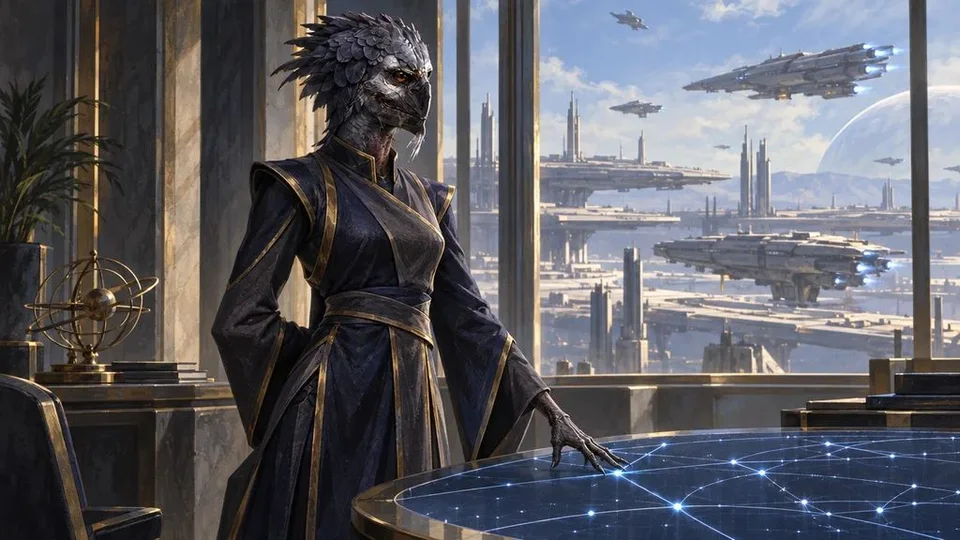
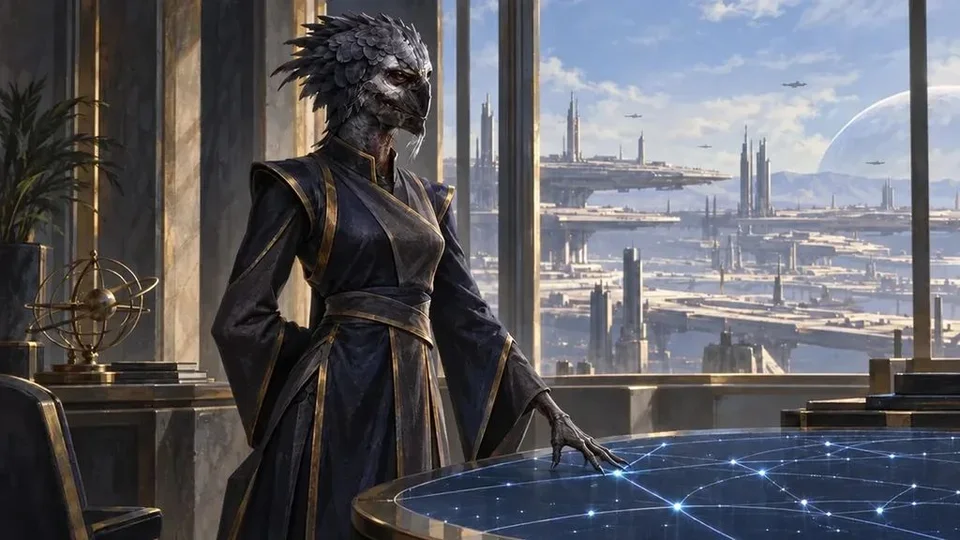
Ilustrace: 5 nových osobností (Abeni Okon, Ashley Ghan, Kellar Lench, Fiona Messer, Livia Messer III.) a opravy 4 portrétů, vše s pohybem
Claude-Session: https://claude.ai/code/session_019nmCp42rAmbc4M4RKrxxCM

diff --git a/assets/zive/seznam.js b/assets/zive/seznam.js
@@ -1,2 +1,2 @@
 /* Vytvořeno nastroje/zive_masky.py – neupravovat ručně. */
-window.ZIVE_SEZNAM={"/assets/kapitoly/dite-z-marsu.webp":{"s":"dite-z-marsu","m":"/assets/zive/dite-z-marsu-maska.png"},"/assets/kapitoly/goodman.webp":{"s":"goodman","m":"/assets/zive/goodman-maska.png"},"/assets/kapitoly/pad-calibanu.webp":{"s":"pad-calibanu","m":"/assets/zive/pad-calibanu-maska.png"},"/assets/kapitoly/ztracena-letka.webp":{"s":"ztracena-letka","m":"/assets/zive/ztracena-letka-maska.png"},"/assets/osoby/ai-se-choan.webp":{"s":"osoba","m":"/assets/zive/osoby/ai-se-choan.png","k":{"kam":[0.3,0.3,0.08,34],"ef":[[1,0.68,0.02,1.0,0.6,0.35,0,0,0,0,0],[4,0.8,0.38,0.92,0.52,0.8,0.35,0,1.0,0.95,0.85],[4,0.65,0.7,1.0,1.0,1.3,0.12,0,1.0,0.75,0.4]],"cast":[["prach",0.4,0.1,1,0.9,25]]}},"/assets/osoby/chule-se-rua.webp":{"s":"osoba","m":"/assets/zive/osoby/chule-se-rua.png","k":{"kam":[0.3,0.25,0.07,36],"ef":[[3,0.55,0.1,1.0,0.5,0.004,0,0,0,0,0],[2,0.0,0.0,0.3,0.55,0.0,0.0,0.004,0,0,0],[5,0.4,0.0,1.0,0.6,0.12,0.4,0,0,0,0]],"cast":[["lupeny",0.0,-0.05,1,0.3,26],["prach",0.3,0.1,1,0.8,20]]}},"/assets/osoby/corath-thal.webp":{"s":"osoba","m":"/assets/zive/osoby/corath-thal.png","k":{"kam":[0.3,0.3,0.08,34],"ef":[[2,0.48,0.32,1.0,0.8,0.006,0.0,0.006,0,0,0],[4,0.85,0.25,0.98,0.42,0.6,0.35,0,1.0,0.95,0.85],[4,0.48,0.62,0.62,0.72,2.5,0.25,0,1.0,0.75,0.4]],"cast":[["lode",0.35,0.2,1.05,0.08,6,0.9,1],["lode",1.05,0.55,0.5,0.45,4,0.7,1]]}},"/assets/osoby/corbyn-salehi.webp":{"s":"osoba","m":"/assets/zive/osoby/corbyn-salehi.png","k":{"kam":[0.25,0.25,0.08,32],"ef":[[2,0.35,0.12,1.0,0.98,0.006,-0.002,0.008,0,0,0],[4,0.55,0.0,0.66,0.2,1.5,0.3,0,1.0,0.55,0.2],[4,0.6,0.4,1.0,0.9,1.0,0.12,0,1.0,0.45,0.15]],"cast":[["lode",1.05,0.7,0.85,1.05,5,1.4,0],["jiskry",0.62,0.15]]}},"/assets/osoby/corsen-messer-v.webp":{"s":"osoba","m":"/assets/zive/osoby/corsen-messer-v.png","k":{"kam":[0.4,0.3,0.08,36],"ef":[[2,0.62,0.05,1.0,0.62,0.004,0.0,0.004,0,0,0],[4,0.03,0.32,0.14,0.45,3.0,0.3,0,1.0,0.75,0.4],[3,0.38,0.74,1.0,1.0,0.004,0,0,0,0,0]],"cast":[["jiskry",0.08,0.38],["lode",0.5,0.12,1.05,0.2,4,0.7,1]]}},"/assets/osoby/ellroy-cass.webp":{"s":"osoba","m":"/assets/zive/osoby/ellroy-cass.png","k":{"kam":[0.45,0.25,0.07,30],"ef":[[5,0.0,0.0,1.0,0.65,0.35,1.2,0,0,0,0],[4,0.0,0.7,1.0,0.9,2.2,0.12,0,0.55,0.75,1.0]],"cast":[["bubliny",0.0,0.0,1.0,0.75,10,7],["prach",0.1,0.0,0.9,0.7,25]]}},"/assets/osoby/erin-toi.webp":{"s":"osoba","m":"/assets/zive/osoby/erin-toi.png","k":{"kam":[0.2,0.18,0.07,36],"ef":[[5,0.28,0.0,0.95,0.5,0.25,0.5,0,0,0,0],[2,0.42,0.02,0.92,0.35,0.004,0.0,0.003,0,0,0]],"cast":[["prach",0.3,0.05,0.92,0.6,40]]}},"/assets/osoby/ernst-bishop.webp":{"s":"osoba","m":"/assets/zive/osoby/ernst-bishop.png","k":{"kam":[0.5,0.3,0.06,36],"ef":[[4,0.72,0.1,0.98,0.32,0.8,0.3,0,0.55,0.75,1.0],[4,0.14,0.8,0.2,0.9,1.5,0.9,1,1.0,0.15,0.1]],"cast":[["prach",0.0,0.0,1,1,15]]}},"/assets/osoby/illyana-messer-vi.webp":{"s":"osoba","m":"/assets/zive/osoby/illyana-messer-vi.png","k":{"kam":[0.32,0.15,0.08,34],"ef":[[2,0.5,0.0,0.9,0.32,0.005,0.001,0.008,0,0,0],[4,0.02,0.5,0.14,0.6,3.0,0.25,0,1.0,0.75,0.4]],"cast":[["lode",0.45,0.3,1.05,0.22,4,0.7,1],["jiskry",0.08,0.55]]}},"/assets/osoby/ivar-messer-i.webp":{"s":"osoba","m":"/assets/zive/osoby/ivar-messer-i.png","k":{"kam":[0.4,0.3,0.08,34],"ef":[[2,0.58,0.48,1.0,0.98,0.005,0.0,0.006,0,0,0],[4,0.9,0.48,1.05,0.68,0.5,0.45,0,1.0,0.95,0.85]],"cast":[["lode",0.5,0.38,0.98,0.2,5,0.8,1]]}},"/assets/osoby/jax-mccleary.webp":{"s":"osoba","m":"/assets/zive/osoby/jax-mccleary.png","k":{"kam":[0.6,0.25,0.06,34],"ef":[[4,0.0,0.55,0.55,0.68,1.0,0.2,0,0.55,0.75,1.0],[4,0.6,0.45,0.95,0.95,0.7,0.12,0,0.55,0.75,1.0]],"cast":[["prach",0.0,0.0,1,1,15]]}},"/assets/osoby/jerry.webp":{"s":"osoba","m":"/assets/zive/osoby/jerry.png","k":{"kam":[0.3,0.2,0.08,34],"ef":[[2,0.78,0.45,1.0,0.78,0.004,0.0,0.005,0,0,0],[4,0.45,0.85,0.85,1.0,2.0,0.2,0,1.0,0.75,0.4]],"cast":[["lode",0.4,0.3,1.05,0.1,5,0.7,1]]}},"/assets/osoby/jimmy.webp":{"s":"osoba","m":"/assets/zive/osoby/jimmy.png","k":{"kam":[0.5,0.3,0.06,32],"ef":[[4,0.93,0.72,1.0,0.84,3.5,0.35,0,1.0,0.75,0.4],[4,0.02,0.45,0.14,0.58,1.0,0.25,0,1.0,0.75,0.4],[5,0.38,0.1,0.6,0.45,0.25,0.8,0,0,0,0]],"cast":[["prach",0.1,0.0,1,0.8,20]]}},"/assets/osoby/kelos-costigan.webp":{"s":"osoba","m":"/assets/zive/osoby/kelos-costigan.png","k":{"kam":[0.38,0.15,0.08,36],"ef":[[2,0.5,0.0,1.0,0.25,0.006,0.0,0.005,0,0,0],[3,0.68,0.22,1.0,0.45,0.004,0,0,0,0,0],[4,0.14,0.64,0.24,0.72,1.2,0.25,0,0.55,0.75,1.0]],"cast":[["lode",0.48,0.12,1.05,0.18,7,0.8,0],["lode",1.05,0.3,0.5,0.25,5,0.7,1]]}},"/assets/osoby/ki-jotal.webp":{"s":"osoba","m":"/assets/zive/osoby/ki-jotal.png","k":{"kam":[0.38,0.15,0.08,34],"ef":[[2,0.5,0.0,0.92,0.42,0.005,0.0,0.005,0,0,0],[4,0.35,0.8,0.95,1.0,1.2,0.25,0,0.55,0.75,1.0]],"cast":[["lode",0.48,0.3,0.95,0.2,5,0.8,0],["prach",0.35,0.75,0.95,1,15]]}},"/assets/osoby/kofi-bafeuma.webp":{"s":"osoba","m":"/assets/zive/osoby/kofi-bafeuma.png","k":{"kam":[0.28,0.25,0.08,34],"ef":[[1,0.62,0.0,1.02,0.52,0.25,0,0,0,0,0],[4,0.66,0.05,0.98,0.5,0.7,0.25,0,1.0,0.75,0.4],[4,0.0,0.05,0.12,0.3,2.0,0.2,0,1.0,0.75,0.4]],"cast":[["prach",0.3,0.1,1,0.8,25]]}},"/assets/osoby/laylani-addison.webp":{"s":"osoba","m":"/assets/zive/osoby/laylani-addison.png","k":{"kam":[0.35,0.15,0.07,34],"ef":[[4,0.55,0.0,1.0,0.5,0.7,0.2,0,0.55,0.75,1.0],[4,0.82,0.35,0.95,0.5,2.0,0.25,0,1.0,0.75,0.4],[6,0.62,0.05,0.98,0.45,0.35,0,0,0.55,0.75,1.0]],"cast":[["prach",0.5,0.3,1,0.9,20]]}},"/assets/osoby/lii-se-kre.webp":{"s":"osoba","m":"/assets/zive/osoby/lii-se-kre.png","k":{"kam":[0.17,0.15,0.07,34],"ef":[[4,0.38,0.32,1.0,0.48,0.6,0.25,0,0.55,0.75,1.0],[2,0.4,0.42,1.0,0.9,0.004,0.0,0.004,0,0,0]],"cast":[["lode",0.3,0.25,1.05,0.35,10,0.8,1],["lode",1.05,0.1,0.45,0.05,6,0.6,1]]}},"/assets/osoby/linton-messer-xi.webp":{"s":"osoba","m":"/assets/zive/osoby/linton-messer-xi.png","k":{"kam":[0.55,0.15,0.07,34],"ef":[[4,0.0,0.55,0.5,0.65,1.5,0.2,0,1.0,0.75,0.4],[3,0.0,0.8,1.0,1.0,0.003,0,0,0,0,0]],"cast":[["lode",0.0,0.15,0.5,0.1,4,0.6,1],["prach",0.4,0.1,1,0.9,20]]}},"/assets/osoby/marshall-leon.webp":{"s":"osoba","m":"/assets/zive/osoby/marshall-leon.png","k":{"kam":[0.35,0.2,0.07,34],"ef":[[4,0.84,0.52,0.98,0.74,1.6,0.45,0,0.7,0.85,1.0],[4,0.0,0.1,0.14,0.6,0.4,0.12,0,1.0,0.95,0.85]],"cast":[["prach",0.4,0.0,1,0.9,35]]}},"/assets/osoby/michelle-saleno.webp":{"s":"osoba","m":"/assets/zive/osoby/michelle-saleno.png","k":{"kam":[0.3,0.12,0.08,34],"ef":[[4,0.86,0.2,1.0,0.4,0.5,0.4,0,1.0,0.75,0.4],[2,0.62,0.0,1.0,0.3,0.006,0.0,0.004,0,0,0],[3,0.0,0.66,1.0,1.0,0.005,0,0,0,0,0]],"cast":[["prach",0.3,0.2,1,0.9,25],["lode",0.65,0.12,1.05,0.2,2,0.7,0]]}},"/assets/osoby/ne-se-ruoth.webp":{"s":"osoba","m":"/assets/zive/osoby/ne-se-ruoth.png","k":{"kam":[0.4,0.15,0.08,34],"ef":[[2,0.55,0.0,1.0,0.42,0.004,0.001,0.006,0,0,0],[4,0.48,0.5,0.72,0.62,0.5,0.4,0,1.0,0.75,0.4]],"cast":[["prach",0.3,0.5,1,0.95,30]]}},"/assets/osoby/neal-socolovich.webp":{"s":"osoba","m":"/assets/zive/osoby/neal-socolovich.png","k":{"kam":[0.38,0.15,0.07,34],"ef":[[4,0.85,0.32,1.0,0.52,0.5,0.45,0,1.0,0.75,0.4],[7,0.68,0.4,1.0,0.72,0.003,0,0,0,0,0],[5,0.35,0.05,0.95,0.8,0.15,0.4,0,0,0,0],[4,0.0,0.32,0.07,0.48,3.0,0.3,0,1.0,0.75,0.4]],"cast":[["prach",0.35,0.05,0.95,0.8,40]]}},"/assets/osoby/nick-croshaw.webp":{"s":"osoba","m":"/assets/zive/osoby/nick-croshaw.png","k":{"kam":[0.25,0.2,0.08,34],"ef":[[1,0.66,0.0,1.04,0.62,0.4,0,0,0,0,0],[2,0.24,0.1,0.5,0.52,0.004,0.0,0.004,0,0,0],[4,0.55,0.7,1.0,1.0,2.0,0.2,0,1.0,0.75,0.4]],"cast":[["prach",0.0,0.0,0.6,1,15]]}},"/assets/osoby/paul-barlow.webp":{"s":"osoba","m":"/assets/zive/osoby/paul-barlow.png","k":{"kam":[0.35,0.2,0.08,32],"ef":[[2,0.55,0.0,1.0,0.55,0.003,-0.008,0.01,0,0,0],[3,0.55,0.74,1.0,1.0,0.005,0,0,0,0,0],[4,0.1,0.06,0.17,0.2,3.0,0.3,0,1.0,0.75,0.4]],"cast":[["popel",60],["jiskry",0.82,0.5],["jiskry",0.7,0.62]]}},"/assets/osoby/scott-childress.webp":{"s":"osoba","m":"/assets/zive/osoby/scott-childress.png","k":{"kam":[0.3,0.15,0.07,34],"ef":[[4,0.52,0.12,0.84,0.58,1.2,0.35,0,1.0,0.75,0.4],[3,0.3,0.76,1.0,1.0,0.004,0,0,0,0,0],[2,0.0,0.2,0.15,0.75,0.004,0.0,0.003,0,0,0]],"cast":[["jiskry",0.68,0.35],["prach",0.3,0.1,1,0.8,25]]}},"/assets/osoby/seang-se-rua.webp":{"s":"osoba","m":"/assets/zive/osoby/seang-se-rua.png","k":{"kam":[0.48,0.15,0.07,34],"ef":[[4,0.0,0.28,0.18,0.5,0.5,0.45,0,1.0,0.75,0.4],[5,0.0,0.0,0.7,0.7,0.2,0.4,0,0,0,0],[3,0.0,0.65,1.0,1.0,0.005,0,0,0,0,0]],"cast":[["prach",0.0,0.1,0.7,0.8,40]]}},"/assets/osoby/selma-tontil.webp":{"s":"osoba","m":"/assets/zive/osoby/selma-tontil.png","k":{"kam":[0.45,0.18,0.07,34],"ef":[[4,0.0,0.25,0.1,0.4,2.0,0.25,0,1.0,0.75,0.4],[3,0.65,0.32,1.0,0.5,0.003,0,0,0,0,0]],"cast":[["lode",0.65,0.12,1.05,0.05,3,0.9,0],["lode",1.05,0.3,0.66,0.32,3,0.5,0]]}},"/assets/osoby/suj-kossi.webp":{"s":"osoba","m":"/assets/zive/osoby/suj-kossi.png","k":{"kam":[0.35,0.15,0.07,34],"ef":[[5,0.5,0.0,1.0,0.58,0.25,0.4,0,0,0,0]],"cast":[["prach",0.45,0.0,1,0.7,45]]}},"/assets/osoby/sylvie-randall.webp":{"s":"osoba","m":"/assets/zive/osoby/sylvie-randall.png","k":{"kam":[0.38,0.25,0.07,32],"ef":[[4,0.08,0.02,0.19,0.14,1.6,0.9,1,1.0,0.15,0.1],[4,0.14,0.24,0.22,0.34,1.6,0.7,1,1.0,0.15,0.1],[2,0.6,0.08,1.0,0.85,0.004,0.0,0.004,0,0,0]],"cast":[["lode",0.6,0.3,1.05,0.55,8,0.9,1]]}},"/assets/osoby/terrence-akari.webp":{"s":"osoba","m":"/assets/zive/osoby/terrence-akari.png","k":{"kam":[0.3,0.2,0.08,34],"ef":[[4,0.76,0.12,0.88,0.28,0.6,0.5,0,1.0,0.95,0.85],[2,0.38,0.0,0.85,0.45,0.004,0.001,0.006,0,0,0],[4,0.5,0.55,1.0,0.75,2.0,0.15,0,1.0,0.75,0.4]],"cast":[["lode",0.4,0.4,1.05,0.32,2,0.6,1]]}},"/assets/osoby/toshi-aaron.webp":{"s":"osoba","m":"/assets/zive/osoby/toshi-aaron.png","k":{"kam":[0.4,0.3,0.08,32],"ef":[[1,0.72,0.0,0.88,0.26,0.6,0,0,0,0,0],[6,0.6,0.45,0.82,0.8,0.9,0,0,0.4,1.0,0.7],[4,0.4,0.55,1.0,1.0,2.5,0.15,0,1.0,0.75,0.4]],"cast":[["lode",0.95,0.18,0.7,0.3,6,1.3,0]]}},"/assets/osoby/tueng-se-kre.webp":{"s":"osoba","m":"/assets/zive/osoby/tueng-se-kre.png","k":{"kam":[0.35,0.12,0.07,34],"ef":[[4,0.74,0.34,0.9,0.5,0.5,0.4,0,1.0,0.75,0.4],[2,0.55,0.0,1.0,0.4,0.005,0.0,0.005,0,0,0],[3,0.55,0.74,1.0,1.0,0.004,0,0,0,0,0]],"cast":[["lode",0.55,0.25,1.05,0.2,6,0.7,0]]}},"/assets/osoby/vernon-tar.webp":{"s":"osoba","m":"/assets/zive/osoby/vernon-tar.png","k":{"kam":[0.3,0.25,0.08,34],"ef":[[4,0.76,0.12,0.88,0.28,0.6,0.5,0,1.0,0.95,0.85],[2,0.42,0.0,1.0,0.45,0.004,0.001,0.006,0,0,0],[4,0.3,0.6,0.75,0.85,2.2,0.2,0,1.0,0.75,0.4]],"cast":[["lode",0.45,0.1,1.05,0.2,3,0.6,1]]}},"/assets/osoby/yaha-se-xyo.webp":{"s":"osoba","m":"/assets/zive/osoby/yaha-se-xyo.png","k":{"kam":[0.35,0.25,0.07,34],"ef":[[4,0.47,0.13,0.61,0.42,1.2,0.3,0,1.0,0.75,0.4],[2,0.82,0.35,1.0,0.62,0.002,0.0,0.004,0,0,0],[5,0.6,0.0,1.0,0.7,0.15,0.4,0,0,0,0]],"cast":[["bubliny",0.49,0.22,0.59,0.38,12,1.2],["prach",0.3,0.0,1,0.8,25]]}}};
+window.ZIVE_SEZNAM={"/assets/kapitoly/dite-z-marsu.webp":{"s":"dite-z-marsu","m":"/assets/zive/dite-z-marsu-maska.png"},"/assets/kapitoly/goodman.webp":{"s":"goodman","m":"/assets/zive/goodman-maska.png"},"/assets/kapitoly/pad-calibanu.webp":{"s":"pad-calibanu","m":"/assets/zive/pad-calibanu-maska.png"},"/assets/kapitoly/ztracena-letka.webp":{"s":"ztracena-letka","m":"/assets/zive/ztracena-letka-maska.png"},"/assets/osoby/abeni-okon.webp":{"s":"osoba","m":"/assets/zive/osoby/abeni-okon.png","k":{"kam":[0.27,0.2,0.07,34],"ef":[[4,0.72,0.12,0.84,0.62,1.4,0.3,0,1.0,0.75,0.4],[2,0.3,0.0,1.0,0.35,0.004,0.0,0.004,0,0,0],[3,0.55,0.73,0.88,0.84,0.004,0,0,0,0,0]],"cast":[["para",0.4,0.33,0.8],["para",0.59,0.45,0.6],["para",0.69,0.45,0.6],["para",0.94,0.43,0.7],["prach",0.4,0.1,1,0.8,20]]}},"/assets/osoby/ai-se-choan.webp":{"s":"osoba","m":"/assets/zive/osoby/ai-se-choan.png","k":{"kam":[0.3,0.3,0.08,34],"ef":[[1,0.68,0.02,1.0,0.6,0.35,0,0,0,0,0],[4,0.8,0.38,0.92,0.52,0.8,0.35,0,1.0,0.95,0.85],[4,0.65,0.7,1.0,1.0,1.3,0.12,0,1.0,0.75,0.4]],"cast":[["prach",0.4,0.1,1,0.9,25]]}},"/assets/osoby/ashley-ghan.webp":{"s":"osoba","m":"/assets/zive/osoby/ashley-ghan.png","k":{"kam":[0.35,0.2,0.07,34],"ef":[[4,0.0,0.28,0.09,0.44,3.0,0.3,0,1.0,0.75,0.4],[2,0.75,0.07,0.93,0.4,0.002,0.0,0.003,0,0,0]],"cast":[["prach",0.0,0.2,0.7,0.9,35]]}},"/assets/osoby/chule-se-rua.webp":{"s":"osoba","m":"/assets/zive/osoby/chule-se-rua.png","k":{"kam":[0.3,0.25,0.07,36],"ef":[[3,0.55,0.1,1.0,0.5,0.004,0,0,0,0,0],[2,0.0,0.0,0.3,0.55,0.0,0.0,0.004,0,0,0],[5,0.4,0.0,1.0,0.6,0.12,0.4,0,0,0,0]],"cast":[["lupeny",0.0,-0.05,1,0.3,26],["prach",0.3,0.1,1,0.8,20]]}},"/assets/osoby/corath-thal.webp":{"s":"osoba","m":"/assets/zive/osoby/corath-thal.png","k":{"kam":[0.3,0.3,0.08,34],"ef":[[2,0.48,0.32,1.0,0.8,0.006,0.0,0.006,0,0,0],[4,0.85,0.25,0.98,0.42,0.6,0.35,0,1.0,0.95,0.85],[4,0.48,0.62,0.62,0.72,2.5,0.25,0,1.0,0.75,0.4]],"cast":[["lode",0.35,0.2,1.05,0.08,6,0.9,1],["lode",1.05,0.55,0.5,0.45,4,0.7,1]]}},"/assets/osoby/corbyn-salehi.webp":{"s":"osoba","m":"/assets/zive/osoby/corbyn-salehi.png","k":{"kam":[0.25,0.25,0.08,32],"ef":[[2,0.35,0.12,1.0,0.98,0.006,-0.002,0.008,0,0,0],[4,0.55,0.0,0.66,0.2,1.5,0.3,0,1.0,0.55,0.2],[4,0.6,0.4,1.0,0.9,1.0,0.12,0,1.0,0.45,0.15]],"cast":[["lode",1.05,0.7,0.85,1.05,5,1.4,0],["jiskry",0.62,0.15]]}},"/assets/osoby/corsen-messer-v.webp":{"s":"osoba","m":"/assets/zive/osoby/corsen-messer-v.png","k":{"kam":[0.4,0.3,0.08,36],"ef":[[2,0.62,0.05,1.0,0.62,0.004,0.0,0.004,0,0,0],[4,0.03,0.32,0.14,0.45,3.0,0.3,0,1.0,0.75,0.4],[3,0.38,0.74,1.0,1.0,0.004,0,0,0,0,0]],"cast":[["jiskry",0.08,0.38],["lode",0.5,0.12,1.05,0.2,4,0.7,1]]}},"/assets/osoby/ellroy-cass.webp":{"s":"osoba","m":"/assets/zive/osoby/ellroy-cass.png","k":{"kam":[0.45,0.25,0.07,30],"ef":[[5,0.0,0.0,1.0,0.65,0.35,1.2,0,0,0,0],[4,0.0,0.7,1.0,0.9,2.2,0.12,0,0.55,0.75,1.0]],"cast":[["bubliny",0.0,0.0,1.0,0.75,10,7],["prach",0.1,0.0,0.9,0.7,25]]}},"/assets/osoby/erin-toi.webp":{"s":"osoba","m":"/assets/zive/osoby/erin-toi.png","k":{"kam":[0.2,0.18,0.07,36],"ef":[[5,0.28,0.0,0.95,0.5,0.25,0.5,0,0,0,0],[2,0.42,0.02,0.92,0.35,0.004,0.0,0.003,0,0,0]],"cast":[["prach",0.3,0.05,0.92,0.6,40]]}},"/assets/osoby/ernst-bishop.webp":{"s":"osoba","m":"/assets/zive/osoby/ernst-bishop.png","k":{"kam":[0.5,0.3,0.06,36],"ef":[[4,0.72,0.1,0.98,0.32,0.8,0.3,0,0.55,0.75,1.0],[4,0.14,0.8,0.2,0.9,1.5,0.9,1,1.0,0.15,0.1]],"cast":[["prach",0.0,0.0,1,1,15]]}},"/assets/osoby/fiona-messer.webp":{"s":"osoba","m":"/assets/zive/osoby/fiona-messer.png","k":{"kam":[0.35,0.2,0.07,34],"ef":[[4,0.05,0.32,0.11,0.41,4.0,0.4,0,1.0,0.75,0.4],[2,0.78,0.0,1.0,0.45,0.002,-0.006,0.008,0,0,0],[3,0.65,0.75,1.0,1.0,0.004,0,0,0,0,0]],"cast":[["para",0.08,0.34,0.4],["lode",0.62,0.1,0.86,0.13,3,0.6,1],["jiskry",0.85,0.3]]}},"/assets/osoby/illyana-messer-vi.webp":{"s":"osoba","m":"/assets/zive/osoby/illyana-messer-vi.png","k":{"kam":[0.32,0.15,0.08,34],"ef":[[2,0.5,0.0,0.9,0.32,0.005,0.001,0.008,0,0,0],[4,0.02,0.5,0.14,0.6,3.0,0.25,0,1.0,0.75,0.4]],"cast":[["lode",0.45,0.3,1.05,0.22,4,0.7,1],["jiskry",0.08,0.55]]}},"/assets/osoby/ivar-messer-i.webp":{"s":"osoba","m":"/assets/zive/osoby/ivar-messer-i.png","k":{"kam":[0.4,0.3,0.08,34],"ef":[[2,0.58,0.48,1.0,0.98,0.005,0.0,0.006,0,0,0],[4,0.9,0.48,1.05,0.68,0.5,0.45,0,1.0,0.95,0.85]],"cast":[["lode",0.5,0.38,0.98,0.2,5,0.8,1]]}},"/assets/osoby/jax-mccleary.webp":{"s":"osoba","m":"/assets/zive/osoby/jax-mccleary.png","k":{"kam":[0.6,0.25,0.06,34],"ef":[[4,0.0,0.55,0.55,0.68,1.0,0.2,0,0.55,0.75,1.0],[4,0.6,0.45,0.95,0.95,0.7,0.12,0,0.55,0.75,1.0]],"cast":[["prach",0.0,0.0,1,1,15]]}},"/assets/osoby/jerry.webp":{"s":"osoba","m":"/assets/zive/osoby/jerry.png","k":{"kam":[0.3,0.2,0.08,34],"ef":[[2,0.78,0.45,1.0,0.78,0.004,0.0,0.005,0,0,0],[4,0.45,0.85,0.85,1.0,2.0,0.2,0,1.0,0.75,0.4]],"cast":[["lode",0.4,0.3,1.05,0.1,5,0.7,1]]}},"/assets/osoby/jimmy.webp":{"s":"osoba","m":"/assets/zive/osoby/jimmy.png","k":{"kam":[0.5,0.3,0.06,32],"ef":[[4,0.93,0.72,1.0,0.84,3.5,0.35,0,1.0,0.75,0.4],[4,0.02,0.45,0.14,0.58,1.0,0.25,0,1.0,0.75,0.4],[5,0.38,0.1,0.6,0.45,0.25,0.8,0,0,0,0]],"cast":[["prach",0.1,0.0,1,0.8,20]]}},"/assets/osoby/kellar-lench.webp":{"s":"osoba","m":"/assets/zive/osoby/kellar-lench.png","k":{"kam":[0.37,0.25,0.08,32],"ef":[[1,0.6,0.02,1.0,0.48,0.35,0,0,0,0,0],[4,0.45,0.08,0.57,0.25,0.6,0.35,0,1.0,0.95,0.85],[4,0.4,0.47,0.85,0.72,1.5,0.2,0,0.55,0.75,1.0]],"cast":[["prach",0.0,0.1,0.6,0.9,20]]}},"/assets/osoby/kelos-costigan.webp":{"s":"osoba","m":"/assets/zive/osoby/kelos-costigan.png","k":{"kam":[0.38,0.15,0.08,36],"ef":[[2,0.5,0.0,1.0,0.25,0.006,0.0,0.005,0,0,0],[3,0.68,0.22,1.0,0.45,0.004,0,0,0,0,0],[4,0.14,0.64,0.24,0.72,1.2,0.25,0,0.55,0.75,1.0]],"cast":[["lode",0.48,0.12,1.05,0.18,7,0.8,0],["lode",1.05,0.3,0.5,0.25,5,0.7,1]]}},"/assets/osoby/ki-jotal.webp":{"s":"osoba","m":"/assets/zive/osoby/ki-jotal.png","k":{"kam":[0.38,0.15,0.08,34],"ef":[[2,0.5,0.0,0.92,0.42,0.005,0.0,0.005,0,0,0],[4,0.35,0.8,0.95,1.0,1.2,0.25,0,0.55,0.75,1.0]],"cast":[["lode",0.48,0.3,0.95,0.2,5,0.8,0],["prach",0.35,0.75,0.95,1,15]]}},"/assets/osoby/kofi-bafeuma.webp":{"s":"osoba","m":"/assets/zive/osoby/kofi-bafeuma.png","k":{"kam":[0.28,0.25,0.08,34],"ef":[[1,0.62,0.0,1.02,0.52,0.25,0,0,0,0,0],[4,0.66,0.05,0.98,0.5,0.7,0.25,0,1.0,0.75,0.4],[4,0.0,0.05,0.12,0.3,2.0,0.2,0,1.0,0.75,0.4]],"cast":[["prach",0.3,0.1,1,0.8,25]]}},"/assets/osoby/laylani-addison.webp":{"s":"osoba","m":"/assets/zive/osoby/laylani-addison.png","k":{"kam":[0.35,0.15,0.07,34],"ef":[[4,0.55,0.0,1.0,0.5,0.7,0.2,0,0.55,0.75,1.0],[4,0.82,0.35,0.95,0.5,2.0,0.25,0,1.0,0.75,0.4],[6,0.62,0.05,0.98,0.45,0.35,0,0,0.55,0.75,1.0]],"cast":[["prach",0.5,0.3,1,0.9,20]]}},"/assets/osoby/lii-se-kre.webp":{"s":"osoba","m":"/assets/zive/osoby/lii-se-kre.png","k":{"kam":[0.17,0.15,0.07,34],"ef":[[4,0.38,0.32,1.0,0.48,0.6,0.25,0,0.55,0.75,1.0],[2,0.4,0.42,1.0,0.9,0.004,0.0,0.004,0,0,0]],"cast":[["lode",0.3,0.25,1.05,0.35,10,0.8,1],["lode",1.05,0.1,0.45,0.05,6,0.6,1]]}},"/assets/osoby/linton-messer-xi.webp":{"s":"osoba","m":"/assets/zive/osoby/linton-messer-xi.png","k":{"kam":[0.55,0.15,0.07,34],"ef":[[4,0.0,0.55,0.5,0.65,1.5,0.2,0,1.0,0.75,0.4],[3,0.0,0.8,1.0,1.0,0.003,0,0,0,0,0]],"cast":[["lode",0.0,0.15,0.5,0.1,4,0.6,1],["prach",0.4,0.1,1,0.9,20]]}},"/assets/osoby/livia-messer-iii.webp":{"s":"osoba","m":"/assets/zive/osoby/livia-messer-iii.png","k":{"kam":[0.47,0.2,0.07,34],"ef":[[4,0.0,0.0,0.42,0.75,0.9,0.2,0,0.55,0.75,1.0],[2,0.65,0.0,0.95,0.45,0.004,0.0,0.004,0,0,0]],"cast":[["lode",0.7,0.32,0.92,0.3,3,0.6,0],["prach",0.4,0.0,1,0.8,15]]}},"/assets/osoby/marshall-leon.webp":{"s":"osoba","m":"/assets/zive/osoby/marshall-leon.png","k":{"kam":[0.35,0.2,0.07,34],"ef":[[4,0.84,0.52,0.98,0.74,1.6,0.45,0,0.7,0.85,1.0],[4,0.0,0.1,0.14,0.6,0.4,0.12,0,1.0,0.95,0.85]],"cast":[["prach",0.4,0.0,1,0.9,35]]}},"/assets/osoby/michelle-saleno.webp":{"s":"osoba","m":"/assets/zive/osoby/michelle-saleno.png","k":{"kam":[0.3,0.12,0.08,34],"ef":[[4,0.86,0.2,1.0,0.4,0.5,0.4,0,1.0,0.75,0.4],[2,0.62,0.0,1.0,0.3,0.006,0.0,0.004,0,0,0],[3,0.0,0.66,1.0,1.0,0.005,0,0,0,0,0]],"cast":[["prach",0.3,0.2,1,0.9,25],["lode",0.65,0.12,1.05,0.2,2,0.7,0]]}},"/assets/osoby/ne-se-ruoth.webp":{"s":"osoba","m":"/assets/zive/osoby/ne-se-ruoth.png","k":{"kam":[0.4,0.15,0.08,34],"ef":[[2,0.55,0.0,1.0,0.42,0.004,0.001,0.006,0,0,0],[4,0.48,0.5,0.72,0.62,0.5,0.4,0,1.0,0.75,0.4]],"cast":[["prach",0.3,0.5,1,0.95,30]]}},"/assets/osoby/neal-socolovich.webp":{"s":"osoba","m":"/assets/zive/osoby/neal-socolovich.png","k":{"kam":[0.38,0.15,0.07,34],"ef":[[4,0.85,0.32,1.0,0.52,0.5,0.45,0,1.0,0.75,0.4],[7,0.68,0.4,1.0,0.72,0.003,0,0,0,0,0],[5,0.35,0.05,0.95,0.8,0.15,0.4,0,0,0,0],[4,0.0,0.32,0.07,0.48,3.0,0.3,0,1.0,0.75,0.4]],"cast":[["prach",0.35,0.05,0.95,0.8,40]]}},"/assets/osoby/nick-croshaw.webp":{"s":"osoba","m":"/assets/zive/osoby/nick-croshaw.png","k":{"kam":[0.25,0.2,0.08,34],"ef":[[1,0.66,0.0,1.04,0.62,0.4,0,0,0,0,0],[2,0.24,0.1,0.5,0.52,0.004,0.0,0.004,0,0,0],[4,0.55,0.7,1.0,1.0,2.0,0.2,0,1.0,0.75,0.4]],"cast":[["prach",0.0,0.0,0.6,1,15]]}},"/assets/osoby/paul-barlow.webp":{"s":"osoba","m":"/assets/zive/osoby/paul-barlow.png","k":{"kam":[0.35,0.2,0.08,32],"ef":[[2,0.55,0.0,1.0,0.55,0.003,-0.008,0.01,0,0,0],[3,0.55,0.74,1.0,1.0,0.005,0,0,0,0,0],[4,0.1,0.06,0.17,0.2,3.0,0.3,0,1.0,0.75,0.4]],"cast":[["popel",60],["jiskry",0.82,0.5],["jiskry",0.7,0.62]]}},"/assets/osoby/scott-childress.webp":{"s":"osoba","m":"/assets/zive/osoby/scott-childress.png","k":{"kam":[0.3,0.15,0.07,34],"ef":[[4,0.52,0.12,0.84,0.58,1.2,0.35,0,1.0,0.75,0.4],[3,0.3,0.76,1.0,1.0,0.004,0,0,0,0,0],[2,0.0,0.2,0.15,0.75,0.004,0.0,0.003,0,0,0]],"cast":[["jiskry",0.68,0.35],["prach",0.3,0.1,1,0.8,25]]}},"/assets/osoby/seang-se-rua.webp":{"s":"osoba","m":"/assets/zive/osoby/seang-se-rua.png","k":{"kam":[0.48,0.15,0.07,34],"ef":[[4,0.0,0.28,0.18,0.5,0.5,0.45,0,1.0,0.75,0.4],[5,0.0,0.0,0.7,0.7,0.2,0.4,0,0,0,0],[3,0.0,0.65,1.0,1.0,0.005,0,0,0,0,0]],"cast":[["prach",0.0,0.1,0.7,0.8,40]]}},"/assets/osoby/selma-tontil.webp":{"s":"osoba","m":"/assets/zive/osoby/selma-tontil.png","k":{"kam":[0.45,0.18,0.07,34],"ef":[[4,0.0,0.25,0.1,0.4,2.0,0.25,0,1.0,0.75,0.4],[3,0.65,0.32,1.0,0.5,0.003,0,0,0,0,0]],"cast":[["lode",0.65,0.12,1.05,0.05,3,0.9,0],["lode",1.05,0.3,0.66,0.32,3,0.5,0]]}},"/assets/osoby/suj-kossi.webp":{"s":"osoba","m":"/assets/zive/osoby/suj-kossi.png","k":{"kam":[0.35,0.15,0.07,34],"ef":[[5,0.5,0.0,1.0,0.58,0.25,0.4,0,0,0,0]],"cast":[["prach",0.45,0.0,1,0.7,45]]}},"/assets/osoby/sylvie-randall.webp":{"s":"osoba","m":"/assets/zive/osoby/sylvie-randall.png","k":{"kam":[0.38,0.25,0.07,32],"ef":[[4,0.08,0.02,0.19,0.14,1.6,0.9,1,1.0,0.15,0.1],[4,0.14,0.22,0.22,0.32,1.6,0.7,1,1.0,0.15,0.1],[2,0.63,0.18,0.88,0.7,0.004,0.0,0.004,0,0,0]],"cast":[["lode",0.6,0.3,1.05,0.55,8,0.7,1]]}},"/assets/osoby/terrence-akari.webp":{"s":"osoba","m":"/assets/zive/osoby/terrence-akari.png","k":{"kam":[0.3,0.2,0.08,34],"ef":[[4,0.76,0.12,0.88,0.28,0.6,0.5,0,1.0,0.95,0.85],[2,0.38,0.0,0.85,0.45,0.004,0.001,0.006,0,0,0],[4,0.5,0.55,1.0,0.75,2.0,0.15,0,1.0,0.75,0.4]],"cast":[["lode",0.4,0.4,1.05,0.32,2,0.6,1]]}},"/assets/osoby/toshi-aaron.webp":{"s":"osoba","m":"/assets/zive/osoby/toshi-aaron.png","k":{"kam":[0.4,0.3,0.08,32],"ef":[[1,0.72,0.0,0.88,0.26,0.6,0,0,0,0,0],[6,0.6,0.45,0.82,0.8,0.9,0,0,0.4,1.0,0.7],[4,0.4,0.55,1.0,1.0,2.5,0.15,0,1.0,0.75,0.4]],"cast":[["lode",0.95,0.18,0.7,0.3,6,1.3,0]]}},"/assets/osoby/tueng-se-kre.webp":{"s":"osoba","m":"/assets/zive/osoby/tueng-se-kre.png","k":{"kam":[0.35,0.12,0.07,34],"ef":[[4,0.74,0.34,0.9,0.5,0.5,0.4,0,1.0,0.75,0.4],[2,0.55,0.0,1.0,0.4,0.005,0.0,0.005,0,0,0],[3,0.55,0.74,1.0,1.0,0.004,0,0,0,0,0]],"cast":[["lode",0.55,0.25,1.05,0.2,6,0.7,0]]}},"/assets/osoby/vernon-tar.webp":{"s":"osoba","m":"/assets/zive/osoby/vernon-tar.png","k":{"kam":[0.3,0.25,0.08,34],"ef":[[4,0.76,0.12,0.88,0.28,0.6,0.5,0,1.0,0.95,0.85],[2,0.42,0.0,1.0,0.45,0.004,0.001,0.006,0,0,0],[4,0.3,0.6,0.75,0.85,2.2,0.2,0,1.0,0.75,0.4]],"cast":[["lode",0.45,0.1,1.05,0.2,3,0.6,1]]}},"/assets/osoby/yaha-se-xyo.webp":{"s":"osoba","m":"/assets/zive/osoby/yaha-se-xyo.png","k":{"kam":[0.35,0.25,0.07,34],"ef":[[4,0.47,0.13,0.61,0.42,1.2,0.3,0,1.0,0.75,0.4],[2,0.82,0.35,1.0,0.62,0.002,0.0,0.004,0,0,0],[5,0.6,0.0,1.0,0.7,0.15,0.4,0,0,0,0]],"cast":[["bubliny",0.49,0.22,0.59,0.38,12,1.2],["prach",0.3,0.0,1,0.8,25]]}}};

diff --git a/nastroje/zive_osoby.py b/nastroje/zive_osoby.py
@@ -25,6 +25,29 @@ CERVENA = (1.0, .15, .1)
 ZELENA = (.4, 1.0, .7)
 
 OSOBY = {
+    'abeni-okon': dict(kam=[.27, .2, .07, 34], ef=[
+        ('zar', (.72, .12, .84, .62), 1.4, .3, TEPLA, 0),
+        ('mrak', (.3, .0, 1.0, .35), .004, .0, .004),
+        ('voda', (.55, .73, .88, .84), .004)],
+        cast=[('para', .4, .33, .8), ('para', .59, .45, .6), ('para', .69, .45, .6), ('para', .94, .43, .7), ('prach', .4, .1, 1, .8, 20)]),
+    'ashley-ghan': dict(kam=[.35, .2, .07, 34], ef=[
+        ('zar', (.0, .28, .09, .44), 3.0, .3, TEPLA, 0),
+        ('mrak', (.75, .07, .93, .4), .002, .0, .003)],
+        cast=[('prach', .0, .2, .7, .9, 35)]),
+    'kellar-lench': dict(kam=[.37, .25, .08, 32], ef=[
+        ('vir', (.6, .02, 1.0, .48), .35),
+        ('zar', (.45, .08, .57, .25), .6, .35, BILA, 0),
+        ('zar', (.4, .47, .85, .72), 1.5, .2, MODRA, 0)],
+        cast=[('prach', .0, .1, .6, .9, 20)]),
+    'fiona-messer': dict(kam=[.35, .2, .07, 34], ef=[
+        ('zar', (.05, .32, .11, .41), 4.0, .4, TEPLA, 0),
+        ('mrak', (.78, .0, 1.0, .45), .002, -.006, .008),
+        ('voda', (.65, .75, 1.0, 1.0), .004)],
+        cast=[('para', .08, .34, .4), ('lode', .62, .1, .86, .13, 3, .6, 1), ('jiskry', .85, .3)]),
+    'livia-messer-iii': dict(kam=[.47, .2, .07, 34], ef=[
+        ('zar', (.0, .0, .42, .75), .9, .2, MODRA, 0),
+        ('mrak', (.65, .0, .95, .45), .004, .0, .004)],
+        cast=[('lode', .7, .32, .92, .3, 3, .6, 0), ('prach', .4, .0, 1, .8, 15)]),
     'ai-se-choan': dict(kam=[.3, .3, .08, 34], ef=[
         ('vir', (.68, .02, 1.0, .6), .35),
         ('zar', (.8, .38, .92, .52), .8, .35, BILA, 0),
@@ -159,9 +182,9 @@ OSOBY = {
         cast=[('prach', .45, .0, 1, .7, 45)]),
     'sylvie-randall': dict(kam=[.38, .25, .07, 32], ef=[
         ('zar', (.08, .02, .19, .14), 1.6, .9, CERVENA, 1),
-        ('zar', (.14, .24, .22, .34), 1.6, .7, CERVENA, 1),
-        ('mrak', (.6, .08, 1.0, .85), .004, .0, .004)],
-        cast=[('lode', .6, .3, 1.05, .55, 8, .9, 1)]),
+        ('zar', (.14, .22, .22, .32), 1.6, .7, CERVENA, 1),
+        ('mrak', (.63, .18, .88, .7), .004, .0, .004)],
+        cast=[('lode', .6, .3, 1.05, .55, 8, .7, 1)]),
     'terrence-akari': dict(kam=[.3, .2, .08, 34], ef=[
         ('zar', (.76, .12, .88, .28), .6, .5, BILA, 0),
         ('mrak', (.38, .0, .85, .45), .004, .001, .006),
@@ -209,6 +232,11 @@ def prevod(k):
 # Chráněné části (nesmí se deformovat): obdélník (x0, y0, x1, y1) nebo mnohoúhelník [(x, y), …].
 # Navíc se automaticky chrání ostré hrany (lodě, rámy oken, zábradlí, postavy) – kromě vírů.
 CHRAN = {
+    'abeni-okon': [(0, .1, .45, 1), (.75, .02, .8, .2)],
+    'ashley-ghan': [(.18, 0, .45, 1)],
+    'kellar-lench': [(.1, .1, .55, 1), (.6, 0, 1, .04)],
+    'fiona-messer': [(.18, .05, .56, 1), (.6, 0, .65, 1)],
+    'livia-messer-iii': [(.3, 0, .65, 1)],
     'kofi-bafeuma': [(0, 0, .5, 1), (.52, .44, .6, .56), (.82, .48, 1, .78)],
     'ai-se-choan': [[(.55, .55), (1, .58), (1, 1), (.55, 1)], [(.55, 0), (.69, 0), (.72, .62), (.58, .62)]],
     'nick-croshaw': [[(.58, 0), (.68, 0), (.73, .64), (.6, .64)], (.6, .62, 1, 1)],
@@ -220,7 +248,7 @@ CHRAN = {
     'scott-childress': [(.08, .1, .35, 1)],
     'linton-messer-xi': [(.42, .05, .82, 1)],
     'ivar-messer-i': [[(.5, .55), (.78, .7), (.85, 1), (.5, 1)]],
-    'sylvie-randall': [(.72, .52, .92, .9), (0, 0, .62, 1)],
+    'sylvie-randall': [(.68, .55, .9, .88), (0, 0, .62, 1), (.86, .14, .96, .3)],
     'ki-jotal': [(.62, .1, .95, .3), (.25, .0, .58, 1)],
     'lii-se-kre': [(0, 0, .42, 1)],
     'kelos-costigan': [(0, 0, .5, 1)],

diff --git a/_osoby/ashley-ghan.md b/_osoby/ashley-ghan.md
@@ -25,6 +25,7 @@ zdroje:
 kapitoly: []
 rad: 2311
 obdobi: skoky
+ilustrace: true
 ---
 
 Objev z ní přes noc udělal hrdinku celého impéria. Nabídky rozhovorů s vědci i reklamních smluv ale odmítla.

diff --git a/_osoby/fiona-messer.md b/_osoby/fiona-messer.md
@@ -17,4 +17,5 @@ kapitoly:
 - kap-8
 rad: 2768
 obdobi: messerove
+ilustrace: true
 ---

diff --git a/_osoby/livia-messer-iii.md b/_osoby/livia-messer-iii.md
@@ -16,4 +16,5 @@ kapitoly:
 - kap-6
 rad: 2593
 obdobi: messerove
+ilustrace: true
 ---

diff --git a/_osoby/abeni-okon.md b/_osoby/abeni-okon.md
@@ -15,4 +15,5 @@ kapitoly:
 - kap-1
 rad: 2157
 obdobi: usvit
+ilustrace: true
 ---

diff --git a/_osoby/kellar-lench.md b/_osoby/kellar-lench.md
@@ -15,4 +15,5 @@ kapitoly:
 - kap-5
 rad: 2514
 obdobi: upe
+ilustrace: true
 ---
